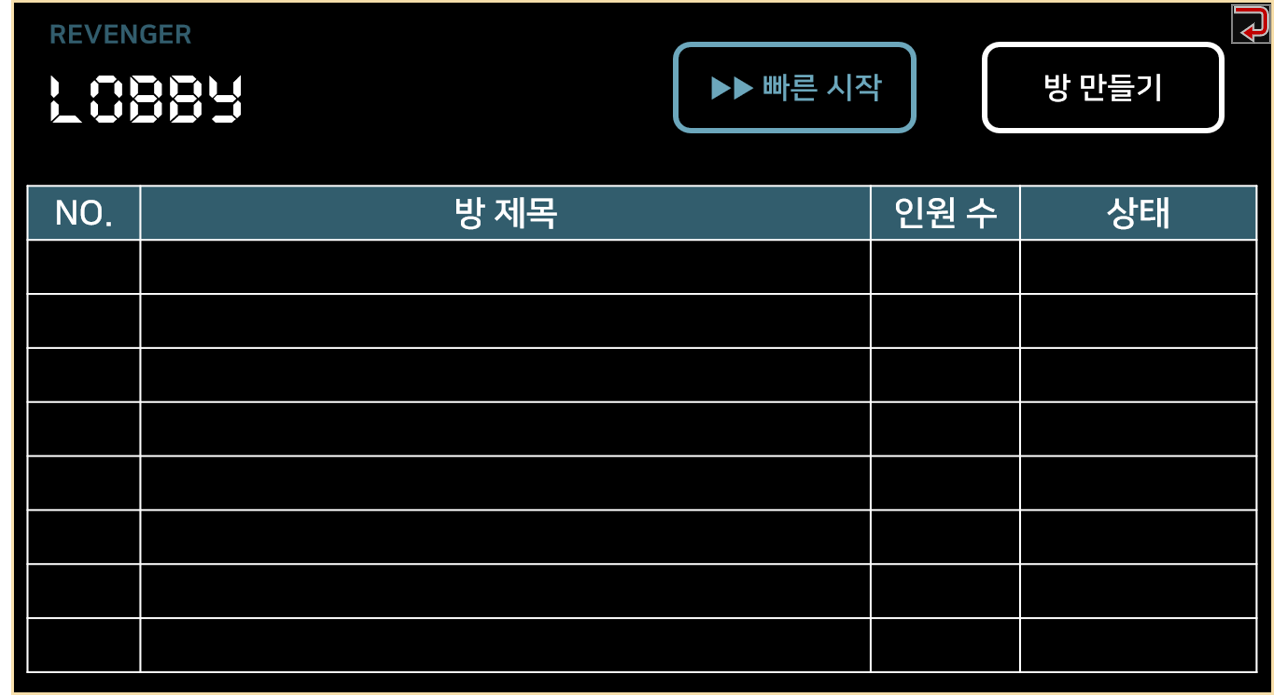
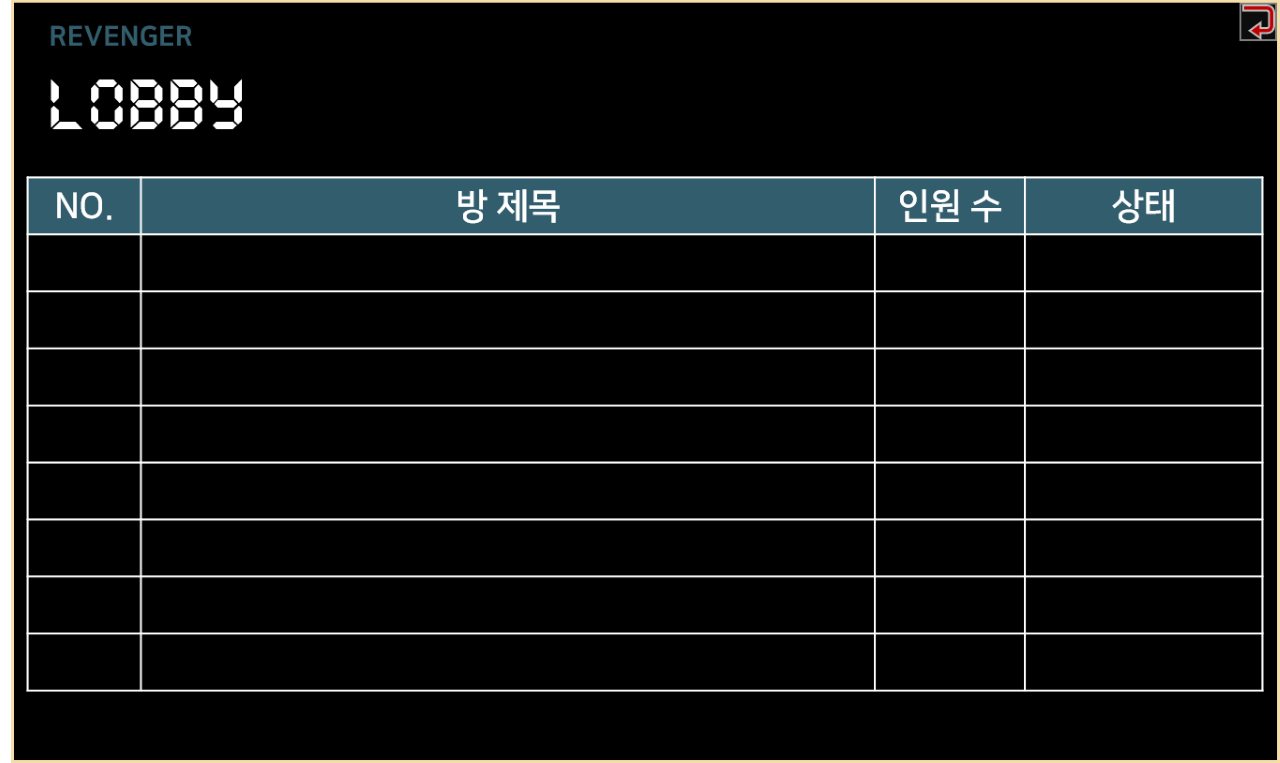
#07-14 이세철 Lobby UI 수정

diff --git a/Client/PvE/REVENGER/GameFramework.cpp b/Client/PvE/REVENGER/GameFramework.cpp
@@ -75,20 +75,30 @@ CGameFramework::CGameFramework()
 	gamepos[1].lx = 280.0f;
 	gamepos[1].ly = 910.0f;
 
-	lobbypos[0].sx = 1004.0f;
-	lobbypos[0].sy = 215.0f;
-	lobbypos[0].lx = 1232.0f;
-	lobbypos[0].ly = 291.0f;
+	lobbypos[0].sx = 1015.0f;
+	lobbypos[0].sy = 245.0f;
+	lobbypos[0].lx = 1275.0f;
+	lobbypos[0].ly = 350.0f;
 
-	lobbypos[1].sx = 1310.0f;
-	lobbypos[1].sy = 215.0f;
-	lobbypos[1].lx = 1541.0f;
-	lobbypos[1].ly = 291.0f;
+	lobbypos[1].sx = 1315.0f;
+	lobbypos[1].sy = 245.0f;
+	lobbypos[1].lx = 1580.0f;
+	lobbypos[1].ly = 350.0f;
 
-	lobbypos[2].sx = 1555.0f;
-	lobbypos[2].sy = 170.0f;
-	lobbypos[2].lx = 1595.0f;
-	lobbypos[2].ly = 210.0f;
+	lobbypos[2].sx = 1565.0f;
+	lobbypos[2].sy = 190.0f;
+	lobbypos[2].lx = 1605.0f;
+	lobbypos[2].ly = 230.0f;
+
+	lobbypos[3].sx = 885.0f;
+	lobbypos[3].sy = 895.0f;
+	lobbypos[3].lx = 905.0f;
+	lobbypos[3].ly = 920.0f;
+
+	lobbypos[4].sx = 1010.0f;
+	lobbypos[4].sy = 895.0f;
+	lobbypos[4].lx = 1025.0f;
+	lobbypos[4].ly = 920.0f;
 
 	roompos[0].sx = 975.0f;
 	roompos[0].sy = 390.0f;
@@ -207,7 +217,7 @@ void CGameFramework::CreateSwapChain()
 		MessageBox(NULL, L"Swap Chain Cannot be Created.", L"Error", MB_OK);
 		::PostQuitMessage(0);
 		return;
-}
+	}
 	hResult = m_pdxgiFactory->MakeWindowAssociation(m_hWnd, DXGI_MWA_NO_ALT_ENTER);
 	m_nSwapChainBufferIndex = m_pdxgiSwapChain->GetCurrentBackBufferIndex();
 
@@ -282,7 +292,7 @@ void CGameFramework::CreateDirect3DDevice()
 	m_d3dViewport.MaxDepth = 1.0f;
 
 	m_d3dScissorRect = { 0, 0, m_nWndClientWidth, m_nWndClientHeight };
-	}
+}
 
 void CGameFramework::CreateCommandQueueAndList()
 {
@@ -489,7 +499,6 @@ void CGameFramework::OnProcessingMouseMessage(HWND hWnd, UINT nMessageID, WPARAM
 						createRoomName = RoomnameList.str3;
 						break;
 					}
-
 				}
 				else if (lobbypos[1].sx < m_ptOldCursorPos.x && m_ptOldCursorPos.x < lobbypos[1].lx && lobbypos[1].sy < m_ptOldCursorPos.y && m_ptOldCursorPos.y < lobbypos[1].ly) {
 					m_LoginScene = LS_CREATE_ROOM;	// 방 생성 UI를 띄운다.
@@ -511,10 +520,19 @@ void CGameFramework::OnProcessingMouseMessage(HWND hWnd, UINT nMessageID, WPARAM
 						createRoomName = RoomnameList.str3;
 						break;
 					}
-
 				}
 				else if (lobbypos[2].sx < m_ptOldCursorPos.x && m_ptOldCursorPos.x < lobbypos[2].lx && lobbypos[2].sy < m_ptOldCursorPos.y && m_ptOldCursorPos.y < lobbypos[2].ly) {
 					m_LoginScene = LS_OPENING; // 뒤로가기 누름
+				}
+				else if (lobbypos[3].sx < m_ptOldCursorPos.x && m_ptOldCursorPos.x < lobbypos[3].lx && lobbypos[3].sy < m_ptOldCursorPos.y && m_ptOldCursorPos.y < lobbypos[3].ly) {
+					memset(m_LobbyClick, 0, sizeof(m_LobbyClick)); // Left Button
+					//m_RoomBackButton = true;
+					// page--;
+				}
+				else if (lobbypos[4].sx < m_ptOldCursorPos.x && m_ptOldCursorPos.x < lobbypos[4].lx && lobbypos[4].sy < m_ptOldCursorPos.y && m_ptOldCursorPos.y < lobbypos[4].ly) {
+					memset(m_LobbyClick, 0, sizeof(m_LobbyClick)); // Right Button
+					//m_RoomBackButton = true;
+					// page++;
 				}
 				else {
 					memset(m_LobbyClick, 0, sizeof(m_LobbyClick));
@@ -1241,9 +1259,66 @@ void CGameFramework::FrameAdvance()
 		}
 		else {
 			// 로비 ui
-			D2D_POINT_2F D2_RobbyUI = { D2_OpeningUI.x - 5.0f, FRAME_BUFFER_HEIGHT / 8 };
-			D2D_RECT_F D2_RobbyUIRect = { 0.0f, 0.0f, 1280.0f, 698.0f };
+			D2D_POINT_2F D2_RobbyUI = { FRAME_BUFFER_WIDTH / 2 - 640.0f, FRAME_BUFFER_HEIGHT / 2 - 381.5f };
+			D2D_RECT_F D2_RobbyUIRect = { 0.0f, 0.0f, 1280.0f, 763.0f };
 			m_pd2dDeviceContext->DrawImage(m_pd2dfxGaussianBlur[27], &D2_RobbyUI, &D2_RobbyUIRect);
+
+			POINT CurrMousePoint;
+			GetCursorPos(&CurrMousePoint);
+
+			bool Roomin = false;
+			bool CreateRoom = false;
+			bool LeftOn = false;
+			bool RightOn = false;
+
+			if (lobbypos[0].sx < CurrMousePoint.x && CurrMousePoint.x < lobbypos[0].lx && lobbypos[0].sy < CurrMousePoint.y && CurrMousePoint.y < lobbypos[0].ly) {
+				Roomin = true;
+				CreateRoom = false;
+				LeftOn = false;
+				RightOn = false;
+			}
+			else if (lobbypos[1].sx < CurrMousePoint.x && CurrMousePoint.x < lobbypos[1].lx && lobbypos[1].sy < CurrMousePoint.y && CurrMousePoint.y < lobbypos[1].ly) {
+				Roomin = false;
+				CreateRoom = true;
+				LeftOn = false;
+				RightOn = false;
+			}
+			else if (lobbypos[3].sx < CurrMousePoint.x && CurrMousePoint.x < lobbypos[3].lx && lobbypos[3].sy < CurrMousePoint.y && CurrMousePoint.y < lobbypos[3].ly) {
+				Roomin = false;
+				CreateRoom = false;
+				LeftOn = true;
+				RightOn = false;
+			}
+			else if (lobbypos[4].sx < CurrMousePoint.x && CurrMousePoint.x < lobbypos[4].lx && lobbypos[4].sy < CurrMousePoint.y && CurrMousePoint.y < lobbypos[4].ly) {
+				Roomin = false;
+				CreateRoom = false;
+				LeftOn = false;
+				RightOn = true;
+			}
+
+
+			// 빠른시작
+			D2D_POINT_2F D2_RapidStartUI = { 1004.0f, 215.0f };
+			D2D_RECT_F D2_RapidStartUIRect = { 0.0f, 102.5f * Roomin, 260.0f, 102.5f * (Roomin + 1) };
+			m_pd2dDeviceContext->DrawImage(m_pd2dfxGaussianBlur[56], &D2_RapidStartUI, &D2_RapidStartUIRect);
+
+			// 방만들기
+			D2D_POINT_2F D2_CreateRoomUI = { 1310.0f, 215.0f };
+			D2D_RECT_F D2_CreateRoomUIRect = { 0.0f, 102.5f * CreateRoom, 261.0f, 102.5f * (CreateRoom + 1) };
+			m_pd2dDeviceContext->DrawImage(m_pd2dfxGaussianBlur[57], &D2_CreateRoomUI, &D2_CreateRoomUIRect);
+
+
+			// 왼쪽 페이지
+			D2D_POINT_2F D2_LeftPageUI = { FRAME_BUFFER_WIDTH / 2 - 100.0f, FRAME_BUFFER_HEIGHT / 2 + 315.0f };
+			D2D_RECT_F D2_LeftPageUIRect = { 0.0f, 0.0f, 46.0f, 50.0f };
+			if (!LeftOn) m_pd2dDeviceContext->DrawImage(m_pd2dfxGaussianBlur[58], &D2_LeftPageUI, &D2_LeftPageUIRect);
+			else m_pd2dDeviceContext->DrawImage(m_pd2dfxGaussianBlur[59], &D2_LeftPageUI, &D2_LeftPageUIRect);
+			// 오른쪽 페이지
+			D2D_POINT_2F D2_RightPageUI = { FRAME_BUFFER_WIDTH / 2 + 26.0f, FRAME_BUFFER_HEIGHT / 2 + 315.0f };
+			D2D_RECT_F D2_RightPageUIRect = { 0.0f, 0.0f, 46.0f, 50.0f };
+			
+			if (!RightOn) m_pd2dDeviceContext->DrawImage(m_pd2dfxGaussianBlur[60], &D2_RightPageUI, &D2_RightPageUIRect);
+			else m_pd2dDeviceContext->DrawImage(m_pd2dfxGaussianBlur[61], &D2_RightPageUI, &D2_RightPageUIRect);
 
 			D2D_POINT_2F D2_RobbyPeopleUI[8];
 			D2D_RECT_F D2_RobbyPeopleUIRect[8];
@@ -1256,11 +1331,11 @@ void CGameFramework::FrameAdvance()
 				if (m_LobbyPage != 0) {
 					numberRoom = m_LobbyPage * 8 + i;
 				}
-				int resulty = 375 + 54 * i;
+				int resulty = 400 + 54 * i;
 				float textypos = (((float)(FRAME_BUFFER_HEIGHT)) / ((float)(resulty)));
 
 				// 각 방 현재 인원
-				D2_RobbyPeopleUI[i] = { FRAME_BUFFER_WIDTH / 1.60f, FRAME_BUFFER_HEIGHT / textypos };
+				D2_RobbyPeopleUI[i] = { FRAME_BUFFER_WIDTH / 1.60f, FRAME_BUFFER_HEIGHT / textypos - 10.0f };
 				D2_RobbyPeopleUIRect[i] = { 0.0f, (m_LobbyRoom_Info[numberRoom].currnum_of_people - 1) * 48.0f, 120.0f, m_LobbyRoom_Info[numberRoom].currnum_of_people * 48.0f };
 				m_pd2dDeviceContext->DrawImage(m_pd2dfxGaussianBlur[28 + i], &D2_RobbyPeopleUI[i], &D2_RobbyPeopleUIRect[i]);
 
@@ -1468,11 +1543,10 @@ void CGameFramework::FrameAdvance()
 			m_pd2dDeviceContext->DrawTextW(m_LoginIP, (UINT32)wcslen(m_LoginIP), m_pdwFont[1], &D2_LoginIPText, m_pd2dbrText[1]);
 		}
 		else if (m_LoginScene == 2) {
-			int roomsize = 8;
 			D2D_RECT_F D2_LoginRoomNumText[8];
 			D2D_RECT_F D2_LoginRoomNameText[8];
 			for (int i{}; i < m_LobbyRoom_Info.size(); ++i) {
-				int resultY = 400 + 55 * i;
+				int resultY = 420 + 55 * i;
 				float textypos = (((float)FRAME_BUFFER_HEIGHT) / ((float)resultY));
 
 				wchar_t roomnum1[20];
@@ -1627,7 +1701,7 @@ void CGameFramework::FrameAdvance()
 		_stprintf_s(m_pszFrameRate + nLength, 70 - nLength, _T("(%5.1f, %5.1f, %5.1f)"), xmf3Position.x, xmf3Position.y, xmf3Position.z);
 		::SetWindowText(m_hWnd, m_pszFrameRate);
 	}
-	}
+}
 
 void CGameFramework::ChangeScene(DWORD nMode)
 {
@@ -2211,7 +2285,7 @@ void CGameFramework::CreateDirect2DDevice()
 	m_pd2dfxEdgeDetection[24]->SetValue(D2D1_EDGEDETECTION_PROP_OVERLAY_EDGES, false);
 	m_pd2dfxEdgeDetection[24]->SetValue(D2D1_EDGEDETECTION_PROP_ALPHA_MODE, D2D1_ALPHA_MODE_PREMULTIPLIED);
 
-	// Opening
+	// Logo
 	hResult = m_pwicImagingFactory->CreateDecoderFromFilename(L"UI/XDUI/CrossHair.png", NULL, GENERIC_READ, WICDecodeMetadataCacheOnDemand, &pwicBitmapDecoder);
 	//hResult = m_pwicImagingFactory->CreateDecoderFromFilename(L"UI/XDUI/Opening.jpg", NULL, GENERIC_READ, WICDecodeMetadataCacheOnDemand, &pwicBitmapDecoder);
 	pwicBitmapDecoder->GetFrame(0, &pwicFrameDecode);
@@ -2521,6 +2595,114 @@ void CGameFramework::CreateDirect2DDevice()
 	m_pd2dfxEdgeDetection[55]->SetValue(D2D1_EDGEDETECTION_PROP_MODE, D2D1_EDGEDETECTION_MODE_SOBEL);
 	m_pd2dfxEdgeDetection[55]->SetValue(D2D1_EDGEDETECTION_PROP_OVERLAY_EDGES, false);
 	m_pd2dfxEdgeDetection[55]->SetValue(D2D1_EDGEDETECTION_PROP_ALPHA_MODE, D2D1_ALPHA_MODE_PREMULTIPLIED);
+
+	// Lobby Game in Button
+	hResult = m_pwicImagingFactory->CreateDecoderFromFilename(L"UI/XDUI/LobbyRoomInUI.png", NULL, GENERIC_READ, WICDecodeMetadataCacheOnDemand, &pwicBitmapDecoder);
+	pwicBitmapDecoder->GetFrame(0, &pwicFrameDecode);
+	m_pwicImagingFactory->CreateFormatConverter(&m_pwicFormatConverter);
+	m_pwicFormatConverter->Initialize(pwicFrameDecode, GUID_WICPixelFormat32bppPBGRA, WICBitmapDitherTypeNone, NULL, 0.0f, WICBitmapPaletteTypeCustom);
+	m_pd2dfxBitmapSource[56]->SetValue(D2D1_BITMAPSOURCE_PROP_WIC_BITMAP_SOURCE, m_pwicFormatConverter);
+	hResult = m_pwicImagingFactory->CreateDecoderFromFilename(L"", NULL, GENERIC_READ, WICDecodeMetadataCacheOnDemand, &pwicBitmapDecoder);
+
+	m_pd2dfxGaussianBlur[56]->SetInputEffect(0, m_pd2dfxBitmapSource[56]);
+	m_pd2dfxGaussianBlur[56]->SetValue(D2D1_GAUSSIANBLUR_PROP_STANDARD_DEVIATION, 0.0f);
+
+	m_pd2dfxEdgeDetection[56]->SetInputEffect(0, m_pd2dfxBitmapSource[56]);
+	m_pd2dfxEdgeDetection[56]->SetValue(D2D1_EDGEDETECTION_PROP_STRENGTH, 0.5f);
+	m_pd2dfxEdgeDetection[56]->SetValue(D2D1_EDGEDETECTION_PROP_BLUR_RADIUS, 0.0f);
+	m_pd2dfxEdgeDetection[56]->SetValue(D2D1_EDGEDETECTION_PROP_MODE, D2D1_EDGEDETECTION_MODE_SOBEL);
+	m_pd2dfxEdgeDetection[56]->SetValue(D2D1_EDGEDETECTION_PROP_OVERLAY_EDGES, false);
+	m_pd2dfxEdgeDetection[56]->SetValue(D2D1_EDGEDETECTION_PROP_ALPHA_MODE, D2D1_ALPHA_MODE_PREMULTIPLIED);
+
+	// Lobby Game Create Room Button
+	hResult = m_pwicImagingFactory->CreateDecoderFromFilename(L"UI/XDUI/LobbyRoomCreateUI.png", NULL, GENERIC_READ, WICDecodeMetadataCacheOnDemand, &pwicBitmapDecoder);
+	pwicBitmapDecoder->GetFrame(0, &pwicFrameDecode);
+	m_pwicImagingFactory->CreateFormatConverter(&m_pwicFormatConverter);
+	m_pwicFormatConverter->Initialize(pwicFrameDecode, GUID_WICPixelFormat32bppPBGRA, WICBitmapDitherTypeNone, NULL, 0.0f, WICBitmapPaletteTypeCustom);
+	m_pd2dfxBitmapSource[57]->SetValue(D2D1_BITMAPSOURCE_PROP_WIC_BITMAP_SOURCE, m_pwicFormatConverter);
+	hResult = m_pwicImagingFactory->CreateDecoderFromFilename(L"", NULL, GENERIC_READ, WICDecodeMetadataCacheOnDemand, &pwicBitmapDecoder);
+
+	m_pd2dfxGaussianBlur[57]->SetInputEffect(0, m_pd2dfxBitmapSource[57]);
+	m_pd2dfxGaussianBlur[57]->SetValue(D2D1_GAUSSIANBLUR_PROP_STANDARD_DEVIATION, 0.0f);
+
+	m_pd2dfxEdgeDetection[57]->SetInputEffect(0, m_pd2dfxBitmapSource[57]);
+	m_pd2dfxEdgeDetection[57]->SetValue(D2D1_EDGEDETECTION_PROP_STRENGTH, 0.5f);
+	m_pd2dfxEdgeDetection[57]->SetValue(D2D1_EDGEDETECTION_PROP_BLUR_RADIUS, 0.0f);
+	m_pd2dfxEdgeDetection[57]->SetValue(D2D1_EDGEDETECTION_PROP_MODE, D2D1_EDGEDETECTION_MODE_SOBEL);
+	m_pd2dfxEdgeDetection[57]->SetValue(D2D1_EDGEDETECTION_PROP_OVERLAY_EDGES, false);
+	m_pd2dfxEdgeDetection[57]->SetValue(D2D1_EDGEDETECTION_PROP_ALPHA_MODE, D2D1_ALPHA_MODE_PREMULTIPLIED);
+
+	// Lobby Game Left Page Button
+	hResult = m_pwicImagingFactory->CreateDecoderFromFilename(L"UI/XDUI/LeftPageButtonNonActiveUI.png", NULL, GENERIC_READ, WICDecodeMetadataCacheOnDemand, &pwicBitmapDecoder);
+	pwicBitmapDecoder->GetFrame(0, &pwicFrameDecode);
+	m_pwicImagingFactory->CreateFormatConverter(&m_pwicFormatConverter);
+	m_pwicFormatConverter->Initialize(pwicFrameDecode, GUID_WICPixelFormat32bppPBGRA, WICBitmapDitherTypeNone, NULL, 0.0f, WICBitmapPaletteTypeCustom);
+	m_pd2dfxBitmapSource[58]->SetValue(D2D1_BITMAPSOURCE_PROP_WIC_BITMAP_SOURCE, m_pwicFormatConverter);
+	hResult = m_pwicImagingFactory->CreateDecoderFromFilename(L"", NULL, GENERIC_READ, WICDecodeMetadataCacheOnDemand, &pwicBitmapDecoder);
+
+	m_pd2dfxGaussianBlur[58]->SetInputEffect(0, m_pd2dfxBitmapSource[58]);
+	m_pd2dfxGaussianBlur[58]->SetValue(D2D1_GAUSSIANBLUR_PROP_STANDARD_DEVIATION, 0.0f);
+
+	m_pd2dfxEdgeDetection[58]->SetInputEffect(0, m_pd2dfxBitmapSource[58]);
+	m_pd2dfxEdgeDetection[58]->SetValue(D2D1_EDGEDETECTION_PROP_STRENGTH, 0.5f);
+	m_pd2dfxEdgeDetection[58]->SetValue(D2D1_EDGEDETECTION_PROP_BLUR_RADIUS, 0.0f);
+	m_pd2dfxEdgeDetection[58]->SetValue(D2D1_EDGEDETECTION_PROP_MODE, D2D1_EDGEDETECTION_MODE_SOBEL);
+	m_pd2dfxEdgeDetection[58]->SetValue(D2D1_EDGEDETECTION_PROP_OVERLAY_EDGES, false);
+	m_pd2dfxEdgeDetection[58]->SetValue(D2D1_EDGEDETECTION_PROP_ALPHA_MODE, D2D1_ALPHA_MODE_PREMULTIPLIED);
+
+	// Lobby Game Left Page Button
+	hResult = m_pwicImagingFactory->CreateDecoderFromFilename(L"UI/XDUI/LeftPageButtonActiveUI.png", NULL, GENERIC_READ, WICDecodeMetadataCacheOnDemand, &pwicBitmapDecoder);
+	pwicBitmapDecoder->GetFrame(0, &pwicFrameDecode);
+	m_pwicImagingFactory->CreateFormatConverter(&m_pwicFormatConverter);
+	m_pwicFormatConverter->Initialize(pwicFrameDecode, GUID_WICPixelFormat32bppPBGRA, WICBitmapDitherTypeNone, NULL, 0.0f, WICBitmapPaletteTypeCustom);
+	m_pd2dfxBitmapSource[59]->SetValue(D2D1_BITMAPSOURCE_PROP_WIC_BITMAP_SOURCE, m_pwicFormatConverter);
+	hResult = m_pwicImagingFactory->CreateDecoderFromFilename(L"", NULL, GENERIC_READ, WICDecodeMetadataCacheOnDemand, &pwicBitmapDecoder);
+
+	m_pd2dfxGaussianBlur[59]->SetInputEffect(0, m_pd2dfxBitmapSource[59]);
+	m_pd2dfxGaussianBlur[59]->SetValue(D2D1_GAUSSIANBLUR_PROP_STANDARD_DEVIATION, 0.0f);
+
+	m_pd2dfxEdgeDetection[59]->SetInputEffect(0, m_pd2dfxBitmapSource[59]);
+	m_pd2dfxEdgeDetection[59]->SetValue(D2D1_EDGEDETECTION_PROP_STRENGTH, 0.5f);
+	m_pd2dfxEdgeDetection[59]->SetValue(D2D1_EDGEDETECTION_PROP_BLUR_RADIUS, 0.0f);
+	m_pd2dfxEdgeDetection[59]->SetValue(D2D1_EDGEDETECTION_PROP_MODE, D2D1_EDGEDETECTION_MODE_SOBEL);
+	m_pd2dfxEdgeDetection[59]->SetValue(D2D1_EDGEDETECTION_PROP_OVERLAY_EDGES, false);
+	m_pd2dfxEdgeDetection[59]->SetValue(D2D1_EDGEDETECTION_PROP_ALPHA_MODE, D2D1_ALPHA_MODE_PREMULTIPLIED);
+
+	// Lobby Game Right Page Button
+	hResult = m_pwicImagingFactory->CreateDecoderFromFilename(L"UI/XDUI/RightPageButtonNonActiveUI.png", NULL, GENERIC_READ, WICDecodeMetadataCacheOnDemand, &pwicBitmapDecoder);
+	pwicBitmapDecoder->GetFrame(0, &pwicFrameDecode);
+	m_pwicImagingFactory->CreateFormatConverter(&m_pwicFormatConverter);
+	m_pwicFormatConverter->Initialize(pwicFrameDecode, GUID_WICPixelFormat32bppPBGRA, WICBitmapDitherTypeNone, NULL, 0.0f, WICBitmapPaletteTypeCustom);
+	m_pd2dfxBitmapSource[60]->SetValue(D2D1_BITMAPSOURCE_PROP_WIC_BITMAP_SOURCE, m_pwicFormatConverter);
+	hResult = m_pwicImagingFactory->CreateDecoderFromFilename(L"", NULL, GENERIC_READ, WICDecodeMetadataCacheOnDemand, &pwicBitmapDecoder);
+
+	m_pd2dfxGaussianBlur[60]->SetInputEffect(0, m_pd2dfxBitmapSource[60]);
+	m_pd2dfxGaussianBlur[60]->SetValue(D2D1_GAUSSIANBLUR_PROP_STANDARD_DEVIATION, 0.0f);
+
+	m_pd2dfxEdgeDetection[60]->SetInputEffect(0, m_pd2dfxBitmapSource[60]);
+	m_pd2dfxEdgeDetection[60]->SetValue(D2D1_EDGEDETECTION_PROP_STRENGTH, 0.5f);
+	m_pd2dfxEdgeDetection[60]->SetValue(D2D1_EDGEDETECTION_PROP_BLUR_RADIUS, 0.0f);
+	m_pd2dfxEdgeDetection[60]->SetValue(D2D1_EDGEDETECTION_PROP_MODE, D2D1_EDGEDETECTION_MODE_SOBEL);
+	m_pd2dfxEdgeDetection[60]->SetValue(D2D1_EDGEDETECTION_PROP_OVERLAY_EDGES, false);
+	m_pd2dfxEdgeDetection[60]->SetValue(D2D1_EDGEDETECTION_PROP_ALPHA_MODE, D2D1_ALPHA_MODE_PREMULTIPLIED);
+
+	// Lobby Game Right Page Button
+	hResult = m_pwicImagingFactory->CreateDecoderFromFilename(L"UI/XDUI/RightPageButtonActiveUI.png", NULL, GENERIC_READ, WICDecodeMetadataCacheOnDemand, &pwicBitmapDecoder);
+	pwicBitmapDecoder->GetFrame(0, &pwicFrameDecode);
+	m_pwicImagingFactory->CreateFormatConverter(&m_pwicFormatConverter);
+	m_pwicFormatConverter->Initialize(pwicFrameDecode, GUID_WICPixelFormat32bppPBGRA, WICBitmapDitherTypeNone, NULL, 0.0f, WICBitmapPaletteTypeCustom);
+	m_pd2dfxBitmapSource[61]->SetValue(D2D1_BITMAPSOURCE_PROP_WIC_BITMAP_SOURCE, m_pwicFormatConverter);
+	hResult = m_pwicImagingFactory->CreateDecoderFromFilename(L"", NULL, GENERIC_READ, WICDecodeMetadataCacheOnDemand, &pwicBitmapDecoder);
+
+	m_pd2dfxGaussianBlur[61]->SetInputEffect(0, m_pd2dfxBitmapSource[61]);
+	m_pd2dfxGaussianBlur[61]->SetValue(D2D1_GAUSSIANBLUR_PROP_STANDARD_DEVIATION, 0.0f);
+
+	m_pd2dfxEdgeDetection[61]->SetInputEffect(0, m_pd2dfxBitmapSource[61]);
+	m_pd2dfxEdgeDetection[61]->SetValue(D2D1_EDGEDETECTION_PROP_STRENGTH, 0.5f);
+	m_pd2dfxEdgeDetection[61]->SetValue(D2D1_EDGEDETECTION_PROP_BLUR_RADIUS, 0.0f);
+	m_pd2dfxEdgeDetection[61]->SetValue(D2D1_EDGEDETECTION_PROP_MODE, D2D1_EDGEDETECTION_MODE_SOBEL);
+	m_pd2dfxEdgeDetection[61]->SetValue(D2D1_EDGEDETECTION_PROP_OVERLAY_EDGES, false);
+	m_pd2dfxEdgeDetection[61]->SetValue(D2D1_EDGEDETECTION_PROP_ALPHA_MODE, D2D1_ALPHA_MODE_PREMULTIPLIED);
 
 	if (pwicBitmapDecoder) pwicBitmapDecoder->Release();
 	if (pwicFrameDecode) pwicFrameDecode->Release();

diff --git a/Client/PvE/REVENGER/GameFramework.h b/Client/PvE/REVENGER/GameFramework.h
@@ -148,7 +148,7 @@ public:
 	DWORD						m_nMode = OPENINGSCENE;
 
 	GameSound gamesound;
-	int m_NumOfUI = 56;
+	int m_NumOfUI = 62;
 	bool UI_Switch = false;
 	bool m_bRollState = false;
 	bool m_LoginClick[4]{ false };
@@ -157,8 +157,8 @@ public:
 	bool m_RoomClick[3]{ false };
 	bool m_SniperOn = false;
 	LoginSceneInfo loginpos[4];
-	LoginSceneInfo gamepos[3];
-	LoginSceneInfo lobbypos[3];
+	LoginSceneInfo gamepos[2];
+	LoginSceneInfo lobbypos[5];
 	LoginSceneInfo roompos[3];
 	LoginSceneInfo createpos[2];
 
@@ -199,9 +199,9 @@ public:
 
 #ifdef _WITH_DIRECT2D_IMAGE_EFFECT
 	IWICImagingFactory* m_pwicImagingFactory = NULL;
-	ID2D1Effect* m_pd2dfxBitmapSource[56];
-	ID2D1Effect* m_pd2dfxGaussianBlur[56];
-	ID2D1Effect* m_pd2dfxEdgeDetection[56];
+	ID2D1Effect* m_pd2dfxBitmapSource[62];
+	ID2D1Effect* m_pd2dfxGaussianBlur[62];
+	ID2D1Effect* m_pd2dfxEdgeDetection[62];
 	ID2D1DrawingStateBlock1* m_pd2dsbDrawingState = NULL;
 	IWICFormatConverter* m_pwicFormatConverter = NULL;
 	int							m_nDrawEffectImage = 0;
